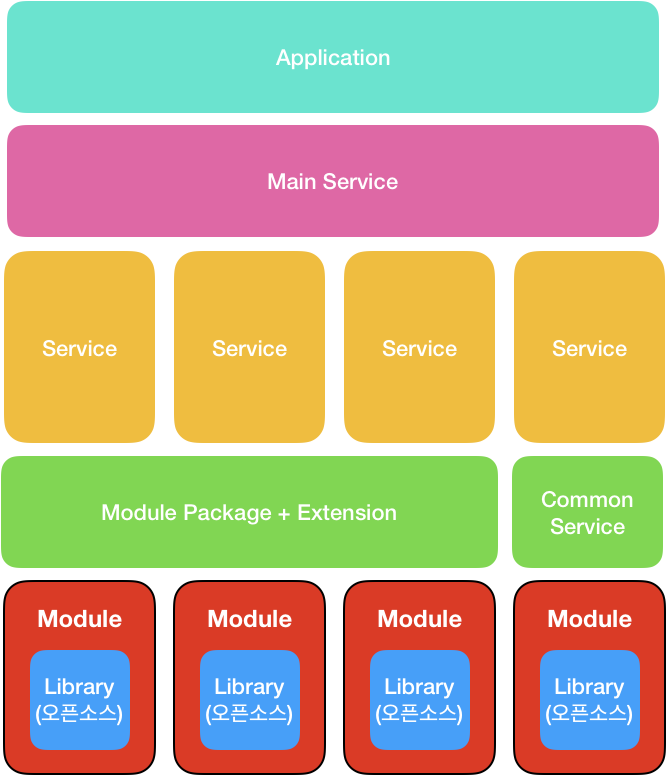
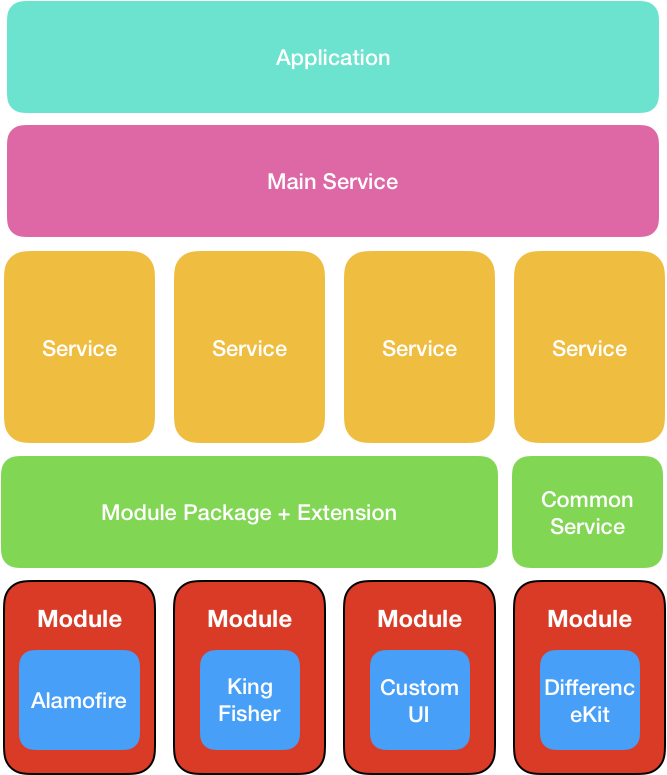
add post

diff --git a/_posts/2018/12/2018-12-17-ios-enterprise-app-configuration-1.md b/_posts/2018/12/2018-12-17-ios-enterprise-app-configuration-1.md
@@ -1,0 +1,48 @@
+---
+layout: post
+title: "[iOS] Enterprise 규모 앱 환경 구성 - 1"
+description: ""
+category: "iOS/Mac"
+tags: [iOS, XCode, Project]
+---
+{% include JB/setup %}
+
+이전에 개발했을 때는 프로젝트가 크질 않아, 개발자 수도 적고, 프로젝트에 많은 라이브러리들이 포함되어 있었습니다. 또한, 윗 개발자분들한테 그렇게 배우기도 했었고요. 
+
+현재 담당하고 있는 프로젝트는 기존에 혼자서 담당하거나 둘 또는 셋이서 담당하기엔 너무나 큰 프로젝트입니다. 프로젝트 개발을 처음 시작할 때는 이렇게 크다고는 생각 못해서 기존(?)에 하던 방식으로 개발을 하였습니다. 그러나 기존에 하던 방식으로는 컴파일 속도도 느리고, 한 곳을 고쳤을 때 사이드 이펙트가 어느정도로 날지 점점 감당하기 어려울 정도로 커지고 있습니다.
+
+그렇다면 결국은 모듈화를 통해 결합도를 낮추고 응집도를 높일 수 밖에 없다는 결론으로 도달하게 되었습니다. 물론 개인적인 의견입니다. 
+
+iOS에서 큰 서비스를 하는 곳이 많지 않고, 그런 곳들이 자료를 공개하질 않아 다른 분야도 있지만 Apple의 Cocoa Layer를 살펴보았습니다. [출처](https://warosu.org/g/thread/S51910725#p51915219)
+
+<img src="/../../../../image/2018/12/cocoa_layered_architecture.jpg" alt="cocoa layered architecture" style="width: 900px;"/>
+
+Kernel - Core OS - Core Service - Media - App Kit 으로 구성되어 있습니다.
+
+위의 구조를 일부 차용하여 다음과 같이 구성하면 어떨까 싶습니다.<br/>
+
+<p style="text-align:center;"><img src="/../../../../image/2018/12/enterprise_application_layer.png" alt="application layered architecture" style="width: 300px"/></p><br/>
+
+* Module : 라이브러리를 가진 프로젝트로, 특정 역할(네트워크, 이미지 다운로드, 커스텀 UI 등)을 수행하며, 외부에는 정의된 인터페이스를 통해서만 호출 가능하도록 한다. 라이브러리 교체가 필요한 경우, 다른 라이브러리로 교체가 가능해야한다.
+
+* Module Package : 여러 모듈들을 관리 및 모듈간의 결합으로 기능 확장을 하는 프로젝트
+
+* Service : 특정 도메인, 상품 및 서비스를 관리하는 프로젝트
+
+* Common Service : 인증, 보안 등 다른 서비스에서 공통으로 사용되는 서비스
+
+* Main Service : 각 서비스들을 호출 및 연결을 수행
+
+* Application : UIApplication(AppDelegate)에서 제공하는 기능을 받아서 처리
+
+이렇게 Layer를 나눴을 때 다음과 같은 이점을 얻을 수 있습니다.
+
+* 메인 프로젝트에서의 라이브러리 의존성이 없어짐
+* 불필요한 프로토콜 적용이 없어짐 - 프로젝트 내에만 영향을 미침
+* 위젯, 와치 등을 개발할 때 모듈을 가져다 사용하면 됨.
+* Clean Build를 하는 경우는 느릴 순 있지만, Rebuild 하는 경우는 해당 수정 부분만 컴파일 되므로 훨씬 빨라짐.
+
+
+하지만 Xcode는 모듈화를 손쉽게 해주는 기능이 없기 때문에, 한땀한땀 작업을 하거나 혹은 다른 도구에 도움을 받아야 합니다. 최근 프로젝트 설정 관련해서 가장 괜찮은 툴은 [XcodeGen](https://github.com/yonaskolb/XcodeGen)라고 알고 있습니다. 신규 프로젝트를 한다면 해당 도구의 도움을 받으면 좋을 것으로 생각되며, 기존 프로젝트에 적용하기에는 까다로울 수 있습니다. 그러므로 기존 프로젝트는 한땀한땀 소스를 옮기고 모듈화 하는 것이 좋지 않을까 생각됩니다.
+
+다음 글에서는 기존 프로젝트에 소스 파일들을 모듈화 하는 것을 설명해볼까 합니다.
